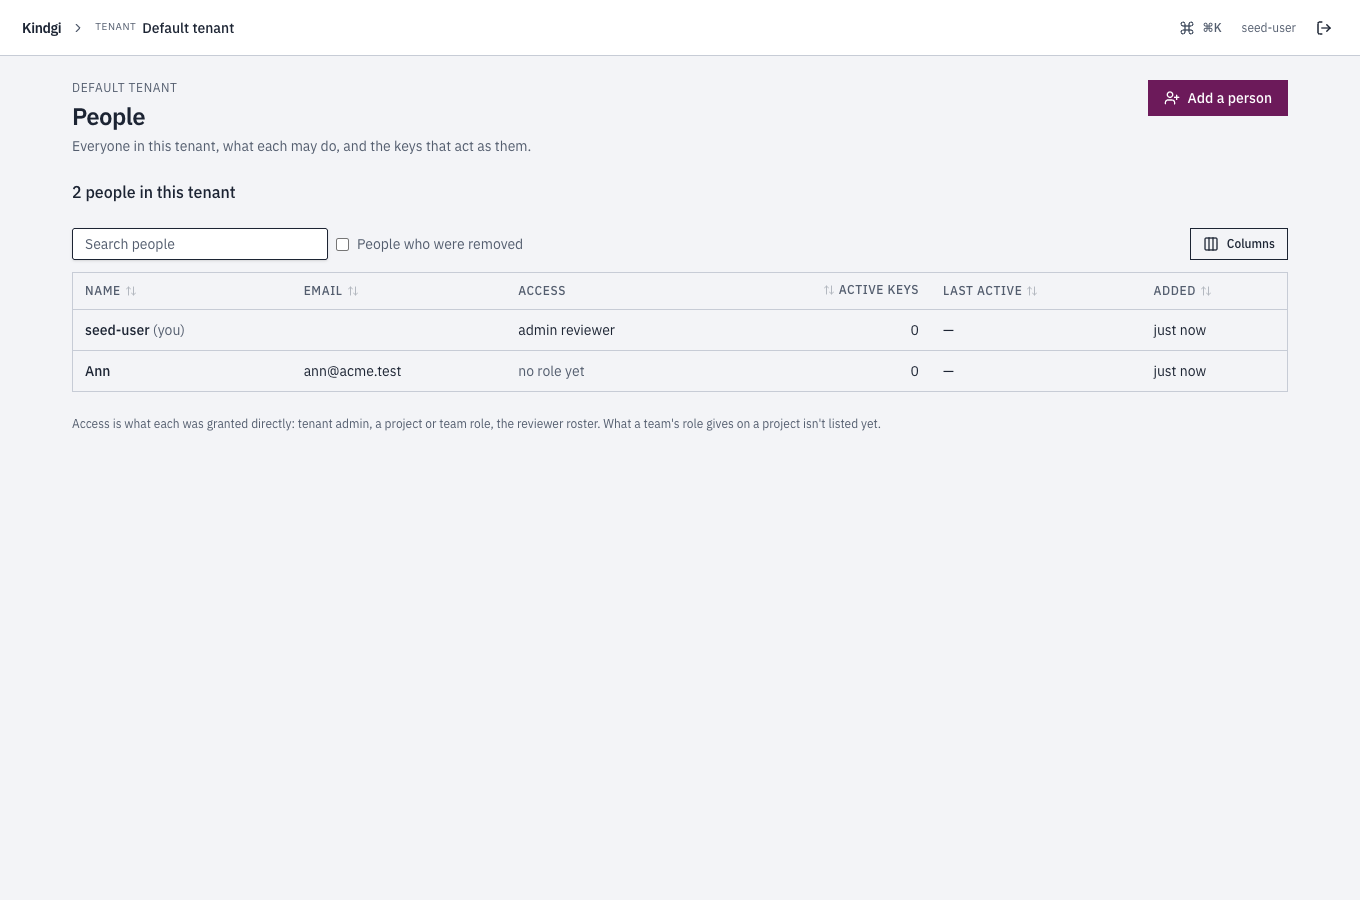
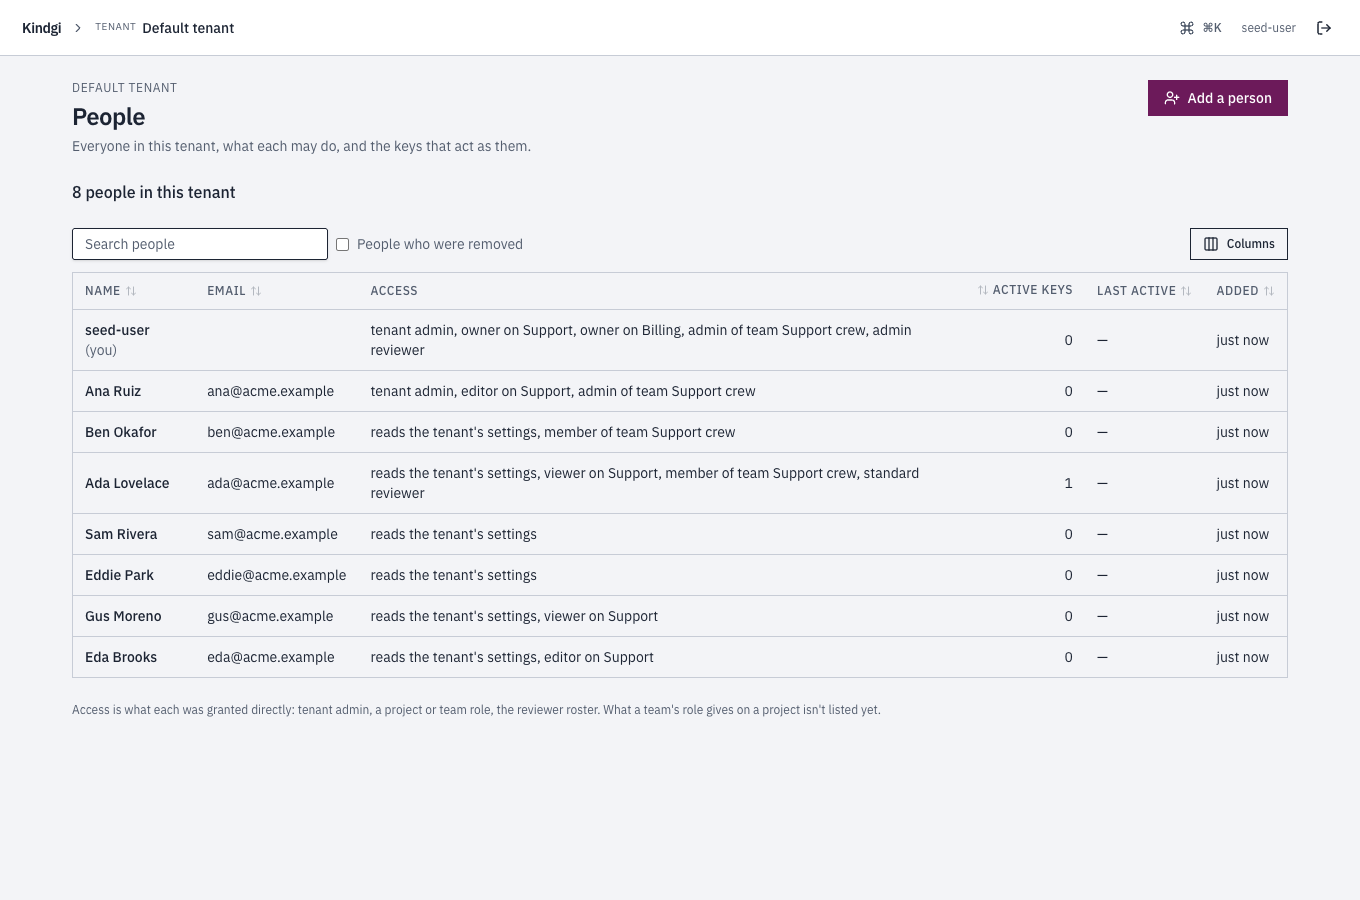
docs(console): roles, Members, People and Teams in the authorization and people guides
The console's access pages, quoting its own words, with screenshots taken
on the 0.1.6 rc.0 runtime image serving the 0.1.6 console:

- authorization: the console by role (a viewer's read-only line, what an
  editor and an admin may also do, which tenant sections show to whom) and
  My access; a Teams part, with the console's Teams pages; and Members:
  who has access and every way in, adding by email, changing a role of
  one's own, Take away saying what stays.
- people-and-keys: People (each person's access in words), Add a person
  with their access in one step and each way it can end, a person's page,
  and the tenant home's What needs you.

diff --git a/site/src/content/docs/deploy/authorization.md b/site/src/content/docs/deploy/authorization.md
@@ -131,6 +131,43 @@ in `details`:
 The TypeScript client gives `{ code: 'auth', reason: 'forbidden' }` with that
 message; Python raises `AuthError`, with `server_code` `permission-denied`.
 
+## The console, by role
+
+The console offers only what your role lets you do. It reads that from
+`GET /v1/identity/me/permissions`
+([What you may do](../people-and-keys/#what-you-may-do)); the server still
+checks every call.
+
+- **A project's viewer** reads its pages and takes no action in them. A
+  line under the console's header says so on each of the project's pages:
+  "You can view this project; changes need an editor.", or the tenant's own
+  line, when a tenant admin set one (`console.readOnlyNotice`), such as "Ask
+  Ana Ruiz for edit access."
+- **An editor** may also "run agents and flows, work on agent versions,
+  publish data blocks, judge runs, compare versions on test sets", in the
+  console's words. An agent's page offers them **Register new version** and
+  **Start run**, which a viewer's doesn't.
+- **A project admin** may also "promote versions, register agents and
+  tools, build test sets, rescore comparisons, set judge classes", and
+  changes who works in the project ([Members](#in-the-console-members)).
+- **The tenant's sections** show to those they're for: People, Service
+  accounts, Policies, Webhooks, Sign-in, Access audit and the like to tenant
+  admins; the Inbox and Approvals to reviewers; Teams to tenant admins and
+  anyone in a team.
+
+![A project's Agents page as Gus Moreno, a viewer of Support: under the header, "You can view this project; changes need an editor."; the agents list (Support agent, acme.support, version 1.0.0) with no buttons.](../../../assets/access/viewer-project.png)
+
+**My access**, in the tenant's sections, is what you may do and how you
+have it. It starts with a sentence, such as "You're an editor in 1
+project.", then your tenant role ("Tenant: member. Its people, keys and
+settings are its admins'."), your reviewer role if you have one, and a
+table of your projects: your role, how you have it (directly, through a
+team, as an admin of the org, as a tenant admin), and what it lets you do
+and doesn't. **The detail** holds your ids and what each role allows on each
+kind of object.
+
+![My access as Eda Brooks: "You're an editor in 1 project." and "Tenant: member. Its people, keys and settings are its admins'."; a table with Support, Editor, directly, and what it lets her do: "run agents and flows, work on agent versions, publish data blocks, judge runs, compare versions on test sets; not promote versions, register agents and tools, build test sets, rescore comparisons, set judge classes"; and The detail, closed.](../../../assets/access/my-access.png)
+
 ## Project memberships
 
 A project's members have a role: `owner`, `admin`, `editor` or `viewer`. Each
@@ -164,6 +201,45 @@ Listing a project's members takes `write` on it: its editors and admins. A
 viewer sees the project, not who else works in it, and reads their own roles
 through [their grants](../people-and-keys/#make-someone-a-tenant-admin)
 (`GET /v1/identity/users/<user-id>/grants`).
+
+In the console, a project's admins do this on its **Members** page: see
+[In the console: Members](#in-the-console-members).
+
+## Teams
+
+A team is a group of the tenant's people, each in it as a `member` or an
+`admin`. A tenant admin makes one (`POST /v1/teams`, with a `name`, a
+`slug` and an optional `description`), and holds its `admin` role. Its
+admins, and tenant admins, add and take out its people
+(`…/teams/<team-id>/memberships`), change their roles, and rename it
+(`PATCH /v1/teams/<team-id>`). A team's role on a project reaches everyone
+in it: see [Team grants](#team-grants).
+
+### In the console: Teams
+
+**Teams**, in the tenant's sections, shows to tenant admins and anyone in a
+team, with the teams each may see. A tenant admin makes one with **New
+team** ("A group of people, run by its admins: they decide who is in it.
+You add the first people on its page."): its name, a slug ("Lowercase
+letters, digits and hyphens; unique in the tenant.") and what it is.
+
+![The Teams page as a tenant admin: "1 team.", Support crew (support-crew, "First-line support"), a New team button, and under the list "The console doesn't give a team a role on a project yet: the API does (team grants)."](../../../assets/teams/teams.png)
+
+A team's page, for its admins and tenant admins, says how many are in it
+and how many run it, such as "4 people, 2 run it.", and lists them with
+their role and since when. There they rename it (the slug stays), change
+someone's role, take someone out (it asks first), and add someone from the
+tenant's people. Finding a person reads the tenant's people, so adding
+someone takes a tenant admin.
+
+![Support crew's page as a tenant admin: "4 people, 2 run it." and "The console doesn't give a team a role on a project yet: the API does (team grants)."; Add someone to Support crew (a person, a role, Add); and the list: the seed user and Ana Ruiz (admins), Ben Okafor and Ada Lovelace (members), each with a role to change and Take out; a Rename button.](../../../assets/teams/team.png)
+
+Anyone else in the team sees it, but not who else is in it: "You're in it.
+Who is in Support crew is shown to its admins."
+
+The console doesn't delete a team, or give one a role on a project: both
+are the API's. Both Teams pages say so: "The console doesn't give a team a
+role on a project yet: the API does (team grants)."
 
 ## Team grants
 
@@ -258,6 +334,38 @@ Reading it takes `write` on the project (its editors and admins); emails show
 to its admins only. It's ordered by role, owner first, then by name, and pages
 like other lists. In the clients: `projects.access.list` (the same in Python).
 A runtime without OpenFGA answers `501 project-access-unsupported`.
+
+### In the console: Members
+
+A project's **Members** page shows its editors and admins everyone with
+access, and how. It starts with a count, each one counted once by the way
+their role comes from, such as "6 people and 1 service account have access
+to Support: 4 through a role of their own, 2 through a team, 1 as a tenant
+admin." Then each one, with their role and every way in: "Their own role
+(editor)", "Team Support crew (editor)", "Admin of Acme", "Tenant admin". A
+way the console can't name reads "Another way in". Emails show to the
+project's admins.
+
+![Support's Members page as a tenant admin: "6 people and 1 service account have access to Support: 4 through a role of their own, 2 through a team, 1 as a tenant admin."; an Add someone to Support form (an email, a role, Add); and the list: the seed user (owner; their own role, tenant admin, Team Support crew), Ana Ruiz (her own role editor, "admin through another way in"; tenant admin, Team Support crew), acme-ci (service account, editor), Ada Lovelace (her own role viewer, "editor through another way in"; Team Support crew (editor)), Ben Okafor (editor through Team Support crew), Eda Brooks (editor) and Gus Moreno (viewer), with Take away beside each role of someone's own.](../../../assets/access/members.png)
+
+A project admin changes who works there:
+
+- **Add someone** by their email in the tenant, with one of the four roles.
+  An email that isn't one of the tenant's people isn't added: "No one with
+  that email in this tenant: a tenant admin adds them on People first."
+- **Change** a person's role of their own. When another way in gives them
+  more, it says so under it, such as "editor through another way in". A
+  role through a team, an org or tenant admin is changed where it comes
+  from, and a service account's on its own page.
+- **Take away** a person's role of their own. It asks first, and says what
+  stays:
+
+![The Take away step: "Take Ada Lovelace off Support? From their next request on, they can't work in Support through this role. Ada Lovelace keeps editor access through Team Support crew. What was done here stays.", with Cancel and Take it away.](../../../assets/access/members-take-away.png)
+
+An editor reads the same list, with "Only an admin of Support changes who
+works here." A viewer doesn't see the section; at its address they read
+"Who works in Support is shown to its editors and admins.", and nothing
+more.
 
 ## The access audit
 

diff --git a/site/src/content/docs/deploy/people-and-keys.md b/site/src/content/docs/deploy/people-and-keys.md
@@ -145,7 +145,7 @@ A key limited to a project sees that project alone. A `member` key is never
 a tenant admin. You only see what you may read: no project you can't read,
 no one else's role.
 
-The console hides actions by it. The server still checks every call.
+The console hides actions by it ([The console, by role](../authorization/#the-console-by-role)). The server still checks every call.
 
 On a runtime without an authorization store it answers
 `501 permissions-unsupported`. In the clients it's
@@ -315,13 +315,6 @@ It's refused for yourself and for the seed user
   Copy button.
 
   ![The API keys page: one key, labelled laptop, acting as Sam Rivera with the member role, never used, expiring a month after it was made, with a Revoke button.](../../../assets/people/api-keys.png)
-- **People** (tenant admins): **Add a person**, each person's access in words
-  (what they were granted directly: tenant admin, a project or team role, the
-  reviewer roster), making or unmaking a tenant admin, a key for them, and
-  removing them. A search box, **People who were removed** and **Columns**
-  narrow the list.
-
-  ![The People page: a search box, a People who were removed checkbox and a Columns button; the seed user (admin, reviewer) and Ann, added by email (no role yet), each with their access, active keys, when they were last active and when they were added; and an Add a person button.](../../../assets/people/people.png)
 - **Service accounts** (tenant admins): create one with its grants, change
   them, make it a key, unregister it.
 
@@ -329,6 +322,78 @@ It's refused for yourself and for the seed user
 
 A project you have no role on shows **No access**, with the projects you can
 open.
+
+### People
+
+**People**, for tenant admins, lists the tenant's people: each one's access
+in words, such as "reads the tenant's settings, viewer on Support, member
+of team Support crew, standard reviewer", their active keys, when they were
+last active, and when they were added. Access is what each was granted
+directly: what a team's role gives on a project isn't listed there yet. A
+search box, sorting, **People who were removed** and **Columns** narrow and
+order the list, and the page's address keeps them.
+
+![The People page: "8 people in this tenant", a People who were removed checkbox, Columns and Add a person; each person with their email, their access in words (the seed user: tenant admin, owner on Support and Billing, admin of team Support crew, admin reviewer; Ada Lovelace: reads the tenant's settings, viewer on Support, member of team Support crew, standard reviewer; Sam Rivera: reads the tenant's settings), their active keys, when they were last active and when they were added.](../../../assets/people/people.png)
+
+**Add a person** adds someone with their access in one step ("Give them
+their access now, in the same step."): a name, an email (optional; "One
+person per email in this tenant."), project roles, teams, a reviewer tier,
+and tenant admin.
+
+![The Add a person dialog: a name and an email, a viewer role on Billing, the team Support crew as a member, no reviewer role, and the Tenant admin checkbox, with an Add button.](../../../assets/people/add-person.png)
+
+Each part is a step of its own. When they all work, the person's page
+opens. When one doesn't, the dialog says how each went:
+
+- **They weren't added,** such as for an email someone has: "Sam Rivera
+  wasn't added.", each step with why ("Someone in this tenant already has
+  that email.") or "not tried: they weren't added", and **Change and try
+  again**.
+- **They were added, but not everything was given:** the steps that failed
+  say why, with **Try again what failed**.
+- **It isn't known whether they were added,** because the runtime didn't
+  answer: it says so and offers **Look in People**, rather than adding them
+  again.
+
+A person's page says what they may do and changes it in place, each part
+where you may:
+
+- **Projects and teams:** change a role, **Take away** one, or **Give
+  access** to another project or team, with a role. Each project role says
+  what it gives, such as "Also changes it: registers and runs agents,
+  judges, publishes." for an editor.
+- **Reviewer:** their tier, or none; **Take off the roster**.
+- **Tenant admin:** making or unmaking one. "A tenant always keeps one
+  admin: removing the only one is refused."
+
+Taking something away asks first: "Take Ada Lovelace off Support? From
+their next request on, they can't work in Support. Their other access, and
+what they did there, stay." The page also lists their keys, with **Make a
+key for** them, where they're signed in, their sign-ins, and **Remove from
+the tenant**.
+
+![Ada Lovelace's page as a tenant admin: "1 active key acts as Ada Lovelace" with Make a key for Ada Lovelace; What they may do: Support (viewer) and Support crew (member), each with Take away; Reviewer: Standard, with Take off the roster; Tenant admin: No, with Make tenant admin; Give access (a project, a role); then Signed in, Their keys (ada-laptop, expiring in 3 days, with Revoke), Sign-ins, and Remove from the tenant.](../../../assets/people/person.png)
+
+### What needs you
+
+A tenant admin's home in the tenant starts with what needs a look, such as
+"8 people in 3 projects and 1 team. 3 people have no project of their own;
+1 key expires this week.", or "Nothing needs you right now.":
+
+- **No project of their own:** people who aren't a tenant admin and have no
+  project role given them directly. A project they reach through a team or
+  as an org admin isn't counted yet.
+- **Keys:** those that expire this week, or have gone unused for 90 days,
+  with **All keys**.
+- **Recently refused:** requests the [access audit](../authorization/#the-access-audit)
+  recorded as denied, with **All refused requests**. "Someone refused may be
+  missing access they need."
+
+![The tenant's home as a tenant admin. What needs you: "8 people in 3 projects and 1 team. 3 people have no project of their own; 1 key expires this week."; No project of their own: Ben Okafor, Sam Rivera and Eddie Park; Keys: "ada-laptop expires in 3 d"; Recently refused: a person refused admin on the tenant, just now. Below: the projects, and the tenant's sections.](../../../assets/people/tenant-home.png)
+
+It counts everyone, and never says all is clear before it has read
+everything: while a read is still coming in, it says "Still reading…", and
+one that failed is named ("… couldn't be read").
 
 ## Recorded
 
